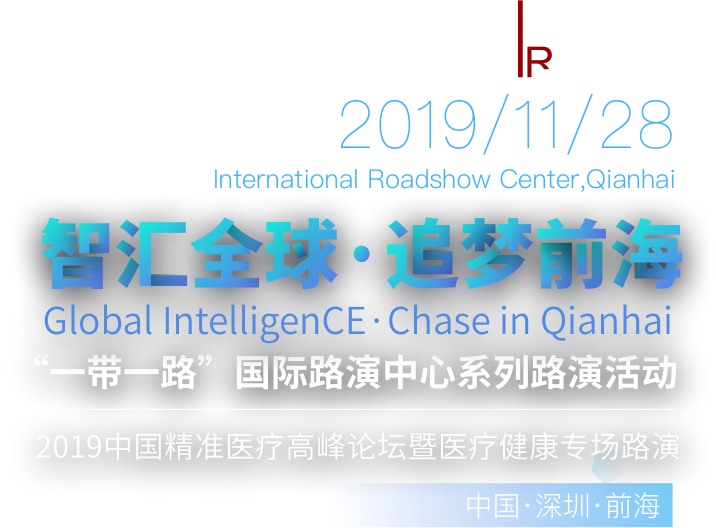
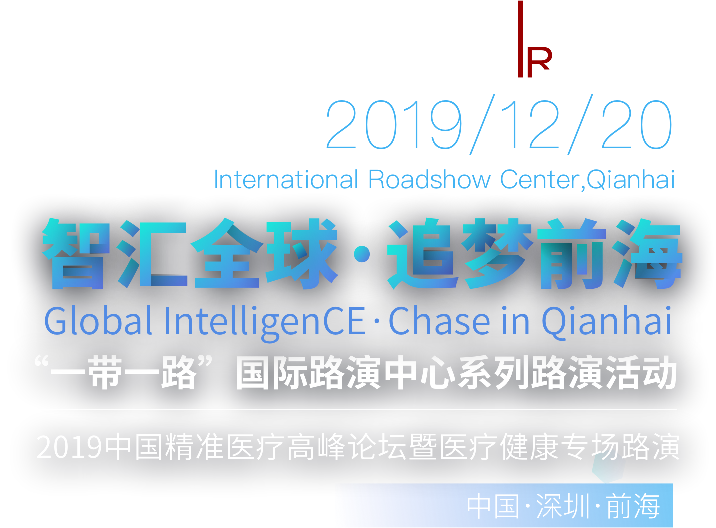
update

diff --git a/src/components/homePage.vue b/src/components/homePage.vue
@@ -380,7 +380,7 @@ export default {
 			domain:'https://app.dyly.com',
 			joinFlag:false, // 参会报名显示和隐藏
 			title:'【邀请函】2019中国精准医疗高峰论坛暨医疗健康专场路演',
-			decs:'智汇全球·追梦前海 路演时间：11月28日9:00 路演地点：前海深港青年梦工场>>',
+			decs:'智汇全球·追梦前海 路演时间：12月20日9:00 路演地点：前海深港青年梦工场>>',
 			imgUrl:'https://m.dyly.com/register/app_h5/img/qh.jpg',
 			sharehref:'https://m.dyly.com/register/app_h5/qh/index.html'
 		}

diff --git a/index.html b/index.html
@@ -24,7 +24,7 @@ html,body{
 <body>
 	<div style="display:none">
 		<span class="shareTitle">【邀请函】2019中国精准医疗高峰论坛暨医疗健康专场路演</span>
-		<div class="shareDesc">智智汇全球·追梦前海 路演时间：11月28日9:00 路演地点：前海深港青年梦工场>></div>
+		<div class="shareDesc">智智汇全球·追梦前海 路演时间：12月20日9:00 路演地点：前海深港青年梦工场>></div>
 		<div class="shareImgUrl">https://m.dyly.com/register/app_h5/img/qh.jpg</div>
 	</div>
 	<div id="app"></div>

diff --git a/src/components/active.js b/src/components/active.js
@@ -13,7 +13,7 @@ var active = [
     },
     {
         name:'“一带一路”国际路演中心系列路演活动·2019中国精准医疗高峰论坛暨医疗健康专场路演',
-        time:'2019年11月28日'
+        time:'2019年12月20日'
     },
     {
         name:'“一带一路”国际路演中心系列路演活动·人工智能专场路演',
